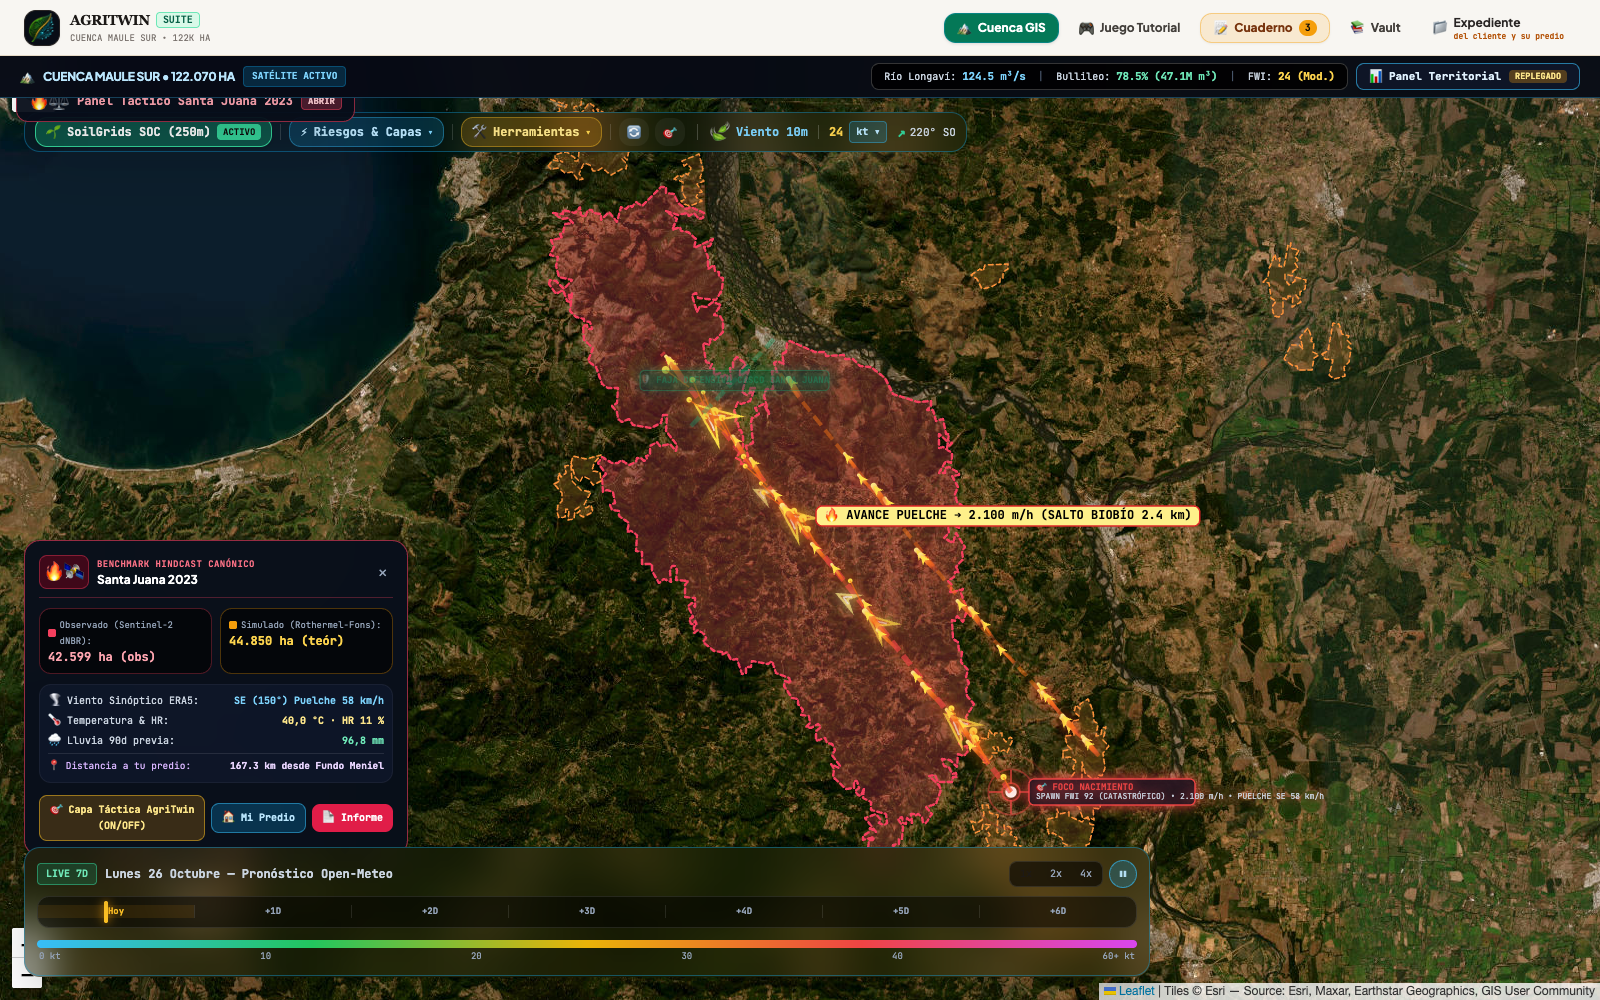
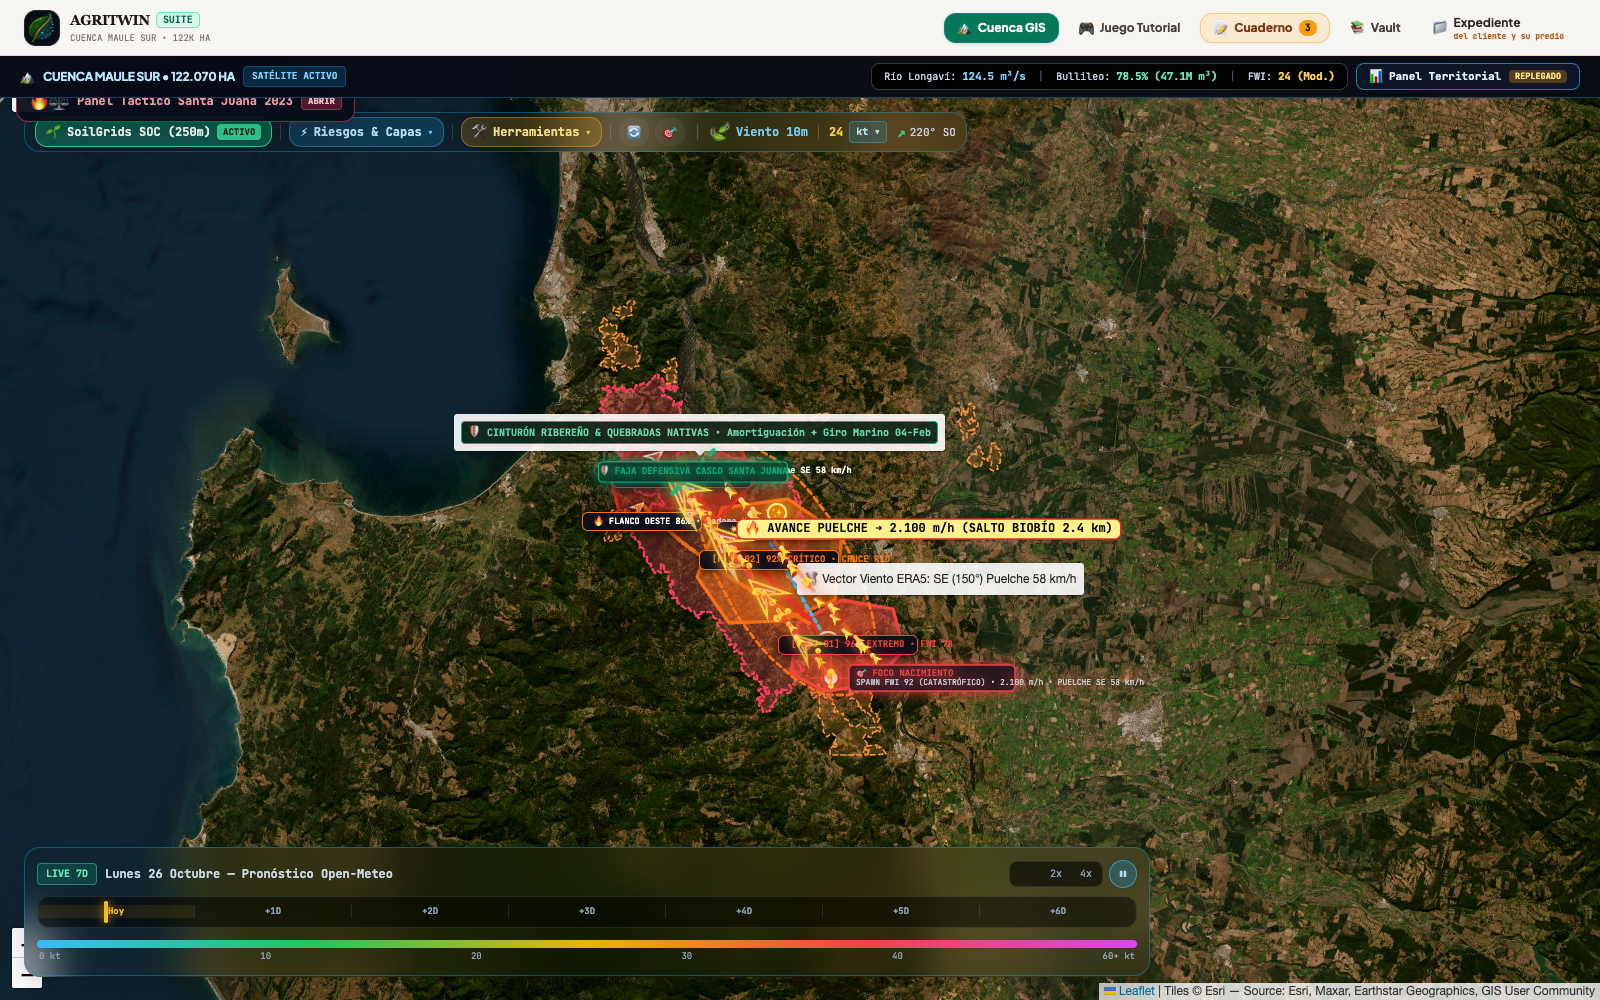
refactor(hindcast): fusionar telemetria predial en drawer y suprimir HUD flotante primitivo

diff --git a/agritwin-hub/index.html b/agritwin-hub/index.html
@@ -13644,6 +13644,14 @@ print(meniel_soil)</code></pre>
                     🔥 Viña del Mar 2024 (2.989 ha)
                 </button>
             </div>
+
+            <!-- Pastilla de Distancia Predial y Telemetría Rápida (incorporada del HUD de operaciones anterior) -->
+            <div class="flex items-center justify-between px-2.5 py-1.5 rounded-lg bg-black/60 border border-purple-500/30 text-[10px]">
+                <span class="text-slate-300 flex items-center gap-1.5 font-sans">
+                    <span class="text-xs">📍</span> Distancia a tu predio activo:
+                </span>
+                <b id="drawerFarmDistanceBadge" class="text-purple-300 font-mono font-bold">Calculando...</b>
+            </div>
             <p class="text-[10px] text-slate-300 font-sans leading-snug">
                 Contraste verídico entre el <strong>Incendio Real Observado</strong> (satélite dNBR post-evento) vs la <strong>Retro-Proyección Ciega T-24h</strong> (calculada solo con insumos previos al evento).
             </p>
@@ -13861,69 +13869,6 @@ print(meniel_soil)</code></pre>
                 </button>
             </div>
 
-        </div>
-    </div>
-
-    <!-- FLOATING BENCHMARK HINDCAST MAP HUD (Overlay interactivo en Mirador Cuenca) -->
-    <div id="hindcastMapHUD" class="hidden absolute bottom-36 left-6 z-30 w-96 max-w-[calc(100vw-3rem)] bg-[#070e1a]/95 backdrop-blur-2xl border border-rose-500/60 p-3.5 rounded-2xl shadow-2xl space-y-2.5 text-slate-200 font-mono text-xs select-none">
-        <div class="flex items-center justify-between border-b border-rose-500/30 pb-2">
-            <div class="flex items-center gap-2">
-                <span class="text-base p-1 rounded-lg bg-rose-950/80 border border-rose-500/40 text-rose-300">🔥🛰</span>
-                <div>
-                    <span class="text-[9px] font-bold text-rose-400 uppercase tracking-wider block">BENCHMARK HINDCAST CANÓNICO</span>
-                    <strong id="hindcastHudTitle" class="text-xs text-white font-bold font-sans">Santa Juana 2023</strong>
-                </div>
-            </div>
-            <button onclick="document.getElementById('hindcastMapHUD').classList.add('hidden')" class="text-slate-400 hover:text-white text-sm px-1.5 py-0.5 rounded hover:bg-white/10 cursor-pointer" title="Cerrar HUD">✕</button>
-        </div>
-
-        <!-- Métricas comparativas lado a lado -->
-        <div class="grid grid-cols-2 gap-2 text-[10.5px]">
-            <div class="p-2 rounded-xl bg-black/60 border border-rose-500/30 space-y-0.5">
-                <span class="text-slate-400 text-[9px] block flex items-center gap-1">
-                    <span class="w-2 h-2 rounded-sm bg-rose-500"></span> Observado (Sentinel-2 dNBR):
-                </span>
-                <b id="hindcastHudObsArea" class="text-rose-300 text-xs font-black">42.599 ha</b>
-            </div>
-            <div class="p-2 rounded-xl bg-black/60 border border-amber-500/30 space-y-0.5">
-                <span class="text-slate-400 text-[9px] block flex items-center gap-1">
-                    <span class="w-2 h-2 rounded-sm bg-amber-500"></span> Simulado (Rothermel-Fons):
-                </span>
-                <b id="hindcastHudSimArea" class="text-amber-300 text-xs font-black">44.850 ha</b>
-            </div>
-        </div>
-
-        <!-- Clima y Viento ERA5 de esa semana -->
-        <div class="p-2 rounded-xl bg-slate-900/80 border border-white/5 space-y-1 text-[10px]">
-            <div class="flex justify-between items-center text-slate-300">
-                <span>🌪 Viento Sinóptico ERA5:</span>
-                <b id="hindcastHudWind" class="text-sky-300 font-bold">SE 58 km/h</b>
-            </div>
-            <div class="flex justify-between items-center text-slate-300">
-                <span>🌡 Temperatura & HR:</span>
-                <b id="hindcastHudTemp" class="text-amber-200">40,0 °C · HR 11%</b>
-            </div>
-            <div class="flex justify-between items-center text-slate-300">
-                <span>🌧 Lluvia 90d previa:</span>
-                <b id="hindcastHudRain" class="text-emerald-300">96,8 mm</b>
-            </div>
-            <div class="flex justify-between items-center pt-1 border-t border-white/10 text-[9.5px] text-purple-300">
-                <span>📍 Distancia a tu predio:</span>
-                <b id="hindcastHudFarmDist" class="text-purple-200">135 km desde Fundo Meniel</b>
-            </div>
-        </div>
-
-        <!-- Botones de Acción Rápida -->
-        <div class="flex items-center gap-1.5 pt-0.5">
-            <button onclick="window.toggleHindcastSimulationLayer()" id="btnToggleHindcastEllipse" class="flex-1 py-1.5 px-2 rounded-lg bg-amber-500/20 hover:bg-amber-500/35 border border-amber-400/50 text-amber-200 hover:text-white text-[10px] font-bold text-center transition-all cursor-pointer">
-                🎯 Capa Táctica AgriTwin (ON/OFF)
-            </button>
-            <button onclick="window.returnToActiveFarmFromHindcast()" class="py-1.5 px-2.5 rounded-lg bg-sky-600/30 hover:bg-sky-600/50 border border-sky-400/50 text-sky-200 hover:text-white text-[10px] font-bold transition-all cursor-pointer" title="Volver a centrar el mapa en tu predio activo">
-                🏠 Mi Predio
-            </button>
-            <a href="docs/INFORME_HINDCAST_REAL_IMPRIMIBLE.html" target="_blank" class="py-1.5 px-2.5 rounded-lg bg-rose-600 hover:bg-rose-700 text-white text-[10px] font-bold transition-all flex items-center justify-center cursor-pointer shadow-sm" title="Abrir Informe Técnico Imprimible">
-                📄 Informe
-            </a>
         </div>
     </div>
 

diff --git a/agritwin-hub/js/hub/geo-layers.js b/agritwin-hub/js/hub/geo-layers.js
@@ -2351,6 +2351,20 @@
                     : 'py-1 px-2 rounded-lg text-[10px] font-bold bg-black/50 hover:bg-white/10 text-slate-300 border border-white/10 cursor-pointer';
             }
 
+            const distBadge = document.getElementById('drawerFarmDistanceBadge');
+            if (distBadge) {
+                const originPt = isVina ? L.latLng(-33.1380, -71.4980) : L.latLng(-37.3820, -72.7850);
+                const prof = (window.farmProfileManager && window.farmProfileManager.getActiveProfile)
+                    ? window.farmProfileManager.getActiveProfile()
+                    : null;
+                const farmLat = prof?.coordinates?.lat || -36.2115;
+                const farmLon = prof?.coordinates?.lon || -71.6050;
+                const distKm = (typeof map !== 'undefined' && map)
+                    ? (map.distance(originPt, L.latLng(farmLat, farmLon)) / 1000).toFixed(1)
+                    : (isVina ? '341.9' : '135.0');
+                distBadge.innerText = `${distKm} km desde ${activeFarmName}`;
+            }
+
             const infoIncendio = document.getElementById('vinaDrawerContent-incendio');
             const infoRiesgo = document.getElementById('vinaDrawerContent-riesgo');
             const infoComparar = document.getElementById('vinaDrawerContent-comparar');
@@ -2626,6 +2640,20 @@
             if (chkR && chkR.checked !== window.hindcastLayersState.prediccion) chkR.checked = window.hindcastLayersState.prediccion;
 
             // Actualizar vistas del drawer según la combinación activa
+            const distBadge = document.getElementById('drawerFarmDistanceBadge');
+            if (distBadge) {
+                const originPt = isVina ? L.latLng(-33.1380, -71.4980) : L.latLng(-37.3820, -72.7850);
+                const prof = (window.farmProfileManager && window.farmProfileManager.getActiveProfile)
+                    ? window.farmProfileManager.getActiveProfile()
+                    : null;
+                const farmLat = prof?.coordinates?.lat || -36.2115;
+                const farmLon = prof?.coordinates?.lon || -71.6050;
+                const distKm = (typeof map !== 'undefined' && map)
+                    ? (map.distance(originPt, L.latLng(farmLat, farmLon)) / 1000).toFixed(1)
+                    : (isVina ? '341.9' : '135.0');
+                distBadge.innerText = `${distKm} km desde ${activeFarmName}`;
+            }
+
             const infoIncendio = document.getElementById('vinaDrawerContent-incendio');
             const infoRiesgo = document.getElementById('vinaDrawerContent-riesgo');
             const infoComparar = document.getElementById('vinaDrawerContent-comparar');
@@ -2736,8 +2764,6 @@
             const lat = prof?.coordinates?.lat || -36.2115;
             const lon = prof?.coordinates?.lon || -71.6050;
             map.flyTo([lat, lon], 13, { duration: 1.2 });
-            const hud = document.getElementById('hindcastMapHUD');
-            if (hud) hud.classList.add('hidden');
             if (map.hasLayer(hindcastSimulationLayer)) map.removeLayer(hindcastSimulationLayer);
             if (map.hasLayer(hindcastTacticalLayer)) map.removeLayer(hindcastTacticalLayer);
             if (map.hasLayer(hindcastPredictionLayer)) map.removeLayer(hindcastPredictionLayer);
@@ -3480,17 +3506,9 @@
                 });
             }
 
-            // 9. Mostrar y actualizar HUD flotante en el mapa
-            const hud = document.getElementById('hindcastMapHUD');
-            if (hud) {
-                hud.classList.remove('hidden');
-                document.getElementById('hindcastHudTitle').innerText = titleEvent;
-                document.getElementById('hindcastHudObsArea').innerText = scarAreaHa;
-                document.getElementById('hindcastHudSimArea').innerText = simAreaHa;
-                document.getElementById('hindcastHudWind').innerText = `${windLabel} ${windGust}`;
-                document.getElementById('hindcastHudTemp').innerText = `${tempC} · HR ${hrPct}`;
-                document.getElementById('hindcastHudRain').innerText = rain90d;
-
+            // 9. Actualizar badge de distancia en drawer de benchmark
+            const distBadge = document.getElementById('drawerFarmDistanceBadge');
+            if (distBadge) {
                 const prof = (window.farmProfileManager && window.farmProfileManager.getActiveProfile)
                     ? window.farmProfileManager.getActiveProfile()
                     : null;
@@ -3498,7 +3516,7 @@
                 const farmLat = prof?.coordinates?.lat || -36.2115;
                 const farmLon = prof?.coordinates?.lon || -71.6050;
                 const distKm = (map.distance(L.latLng(originLat, originLng), L.latLng(farmLat, farmLon)) / 1000).toFixed(1);
-                document.getElementById('hindcastHudFarmDist').innerText = `${distKm} km desde ${farmName}`;
+                distBadge.innerText = `${distKm} km desde ${farmName}`;
             }
 
             // 10. Sincronizar botones en la barra lateral
